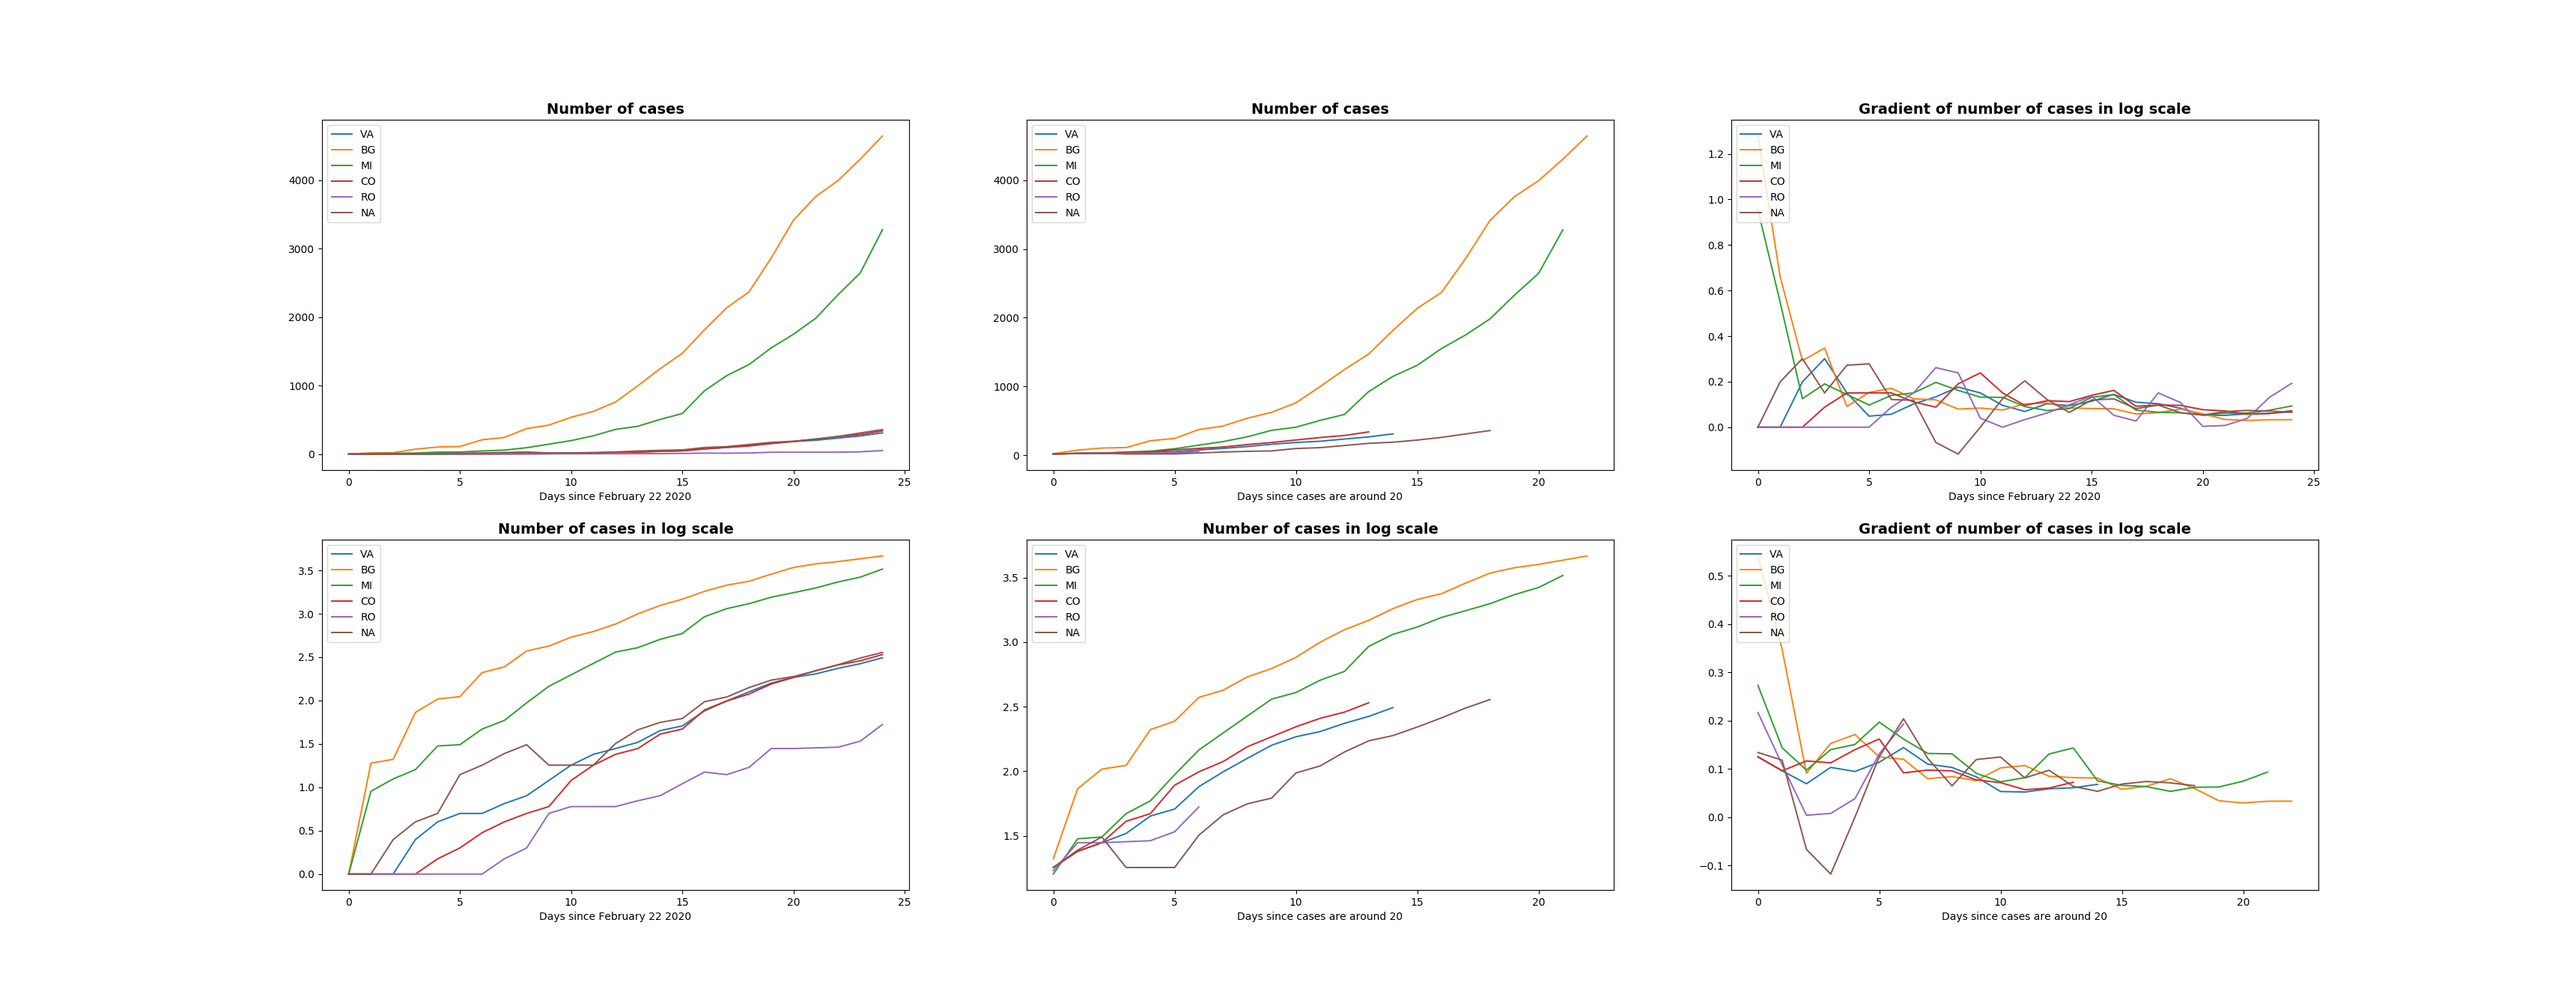
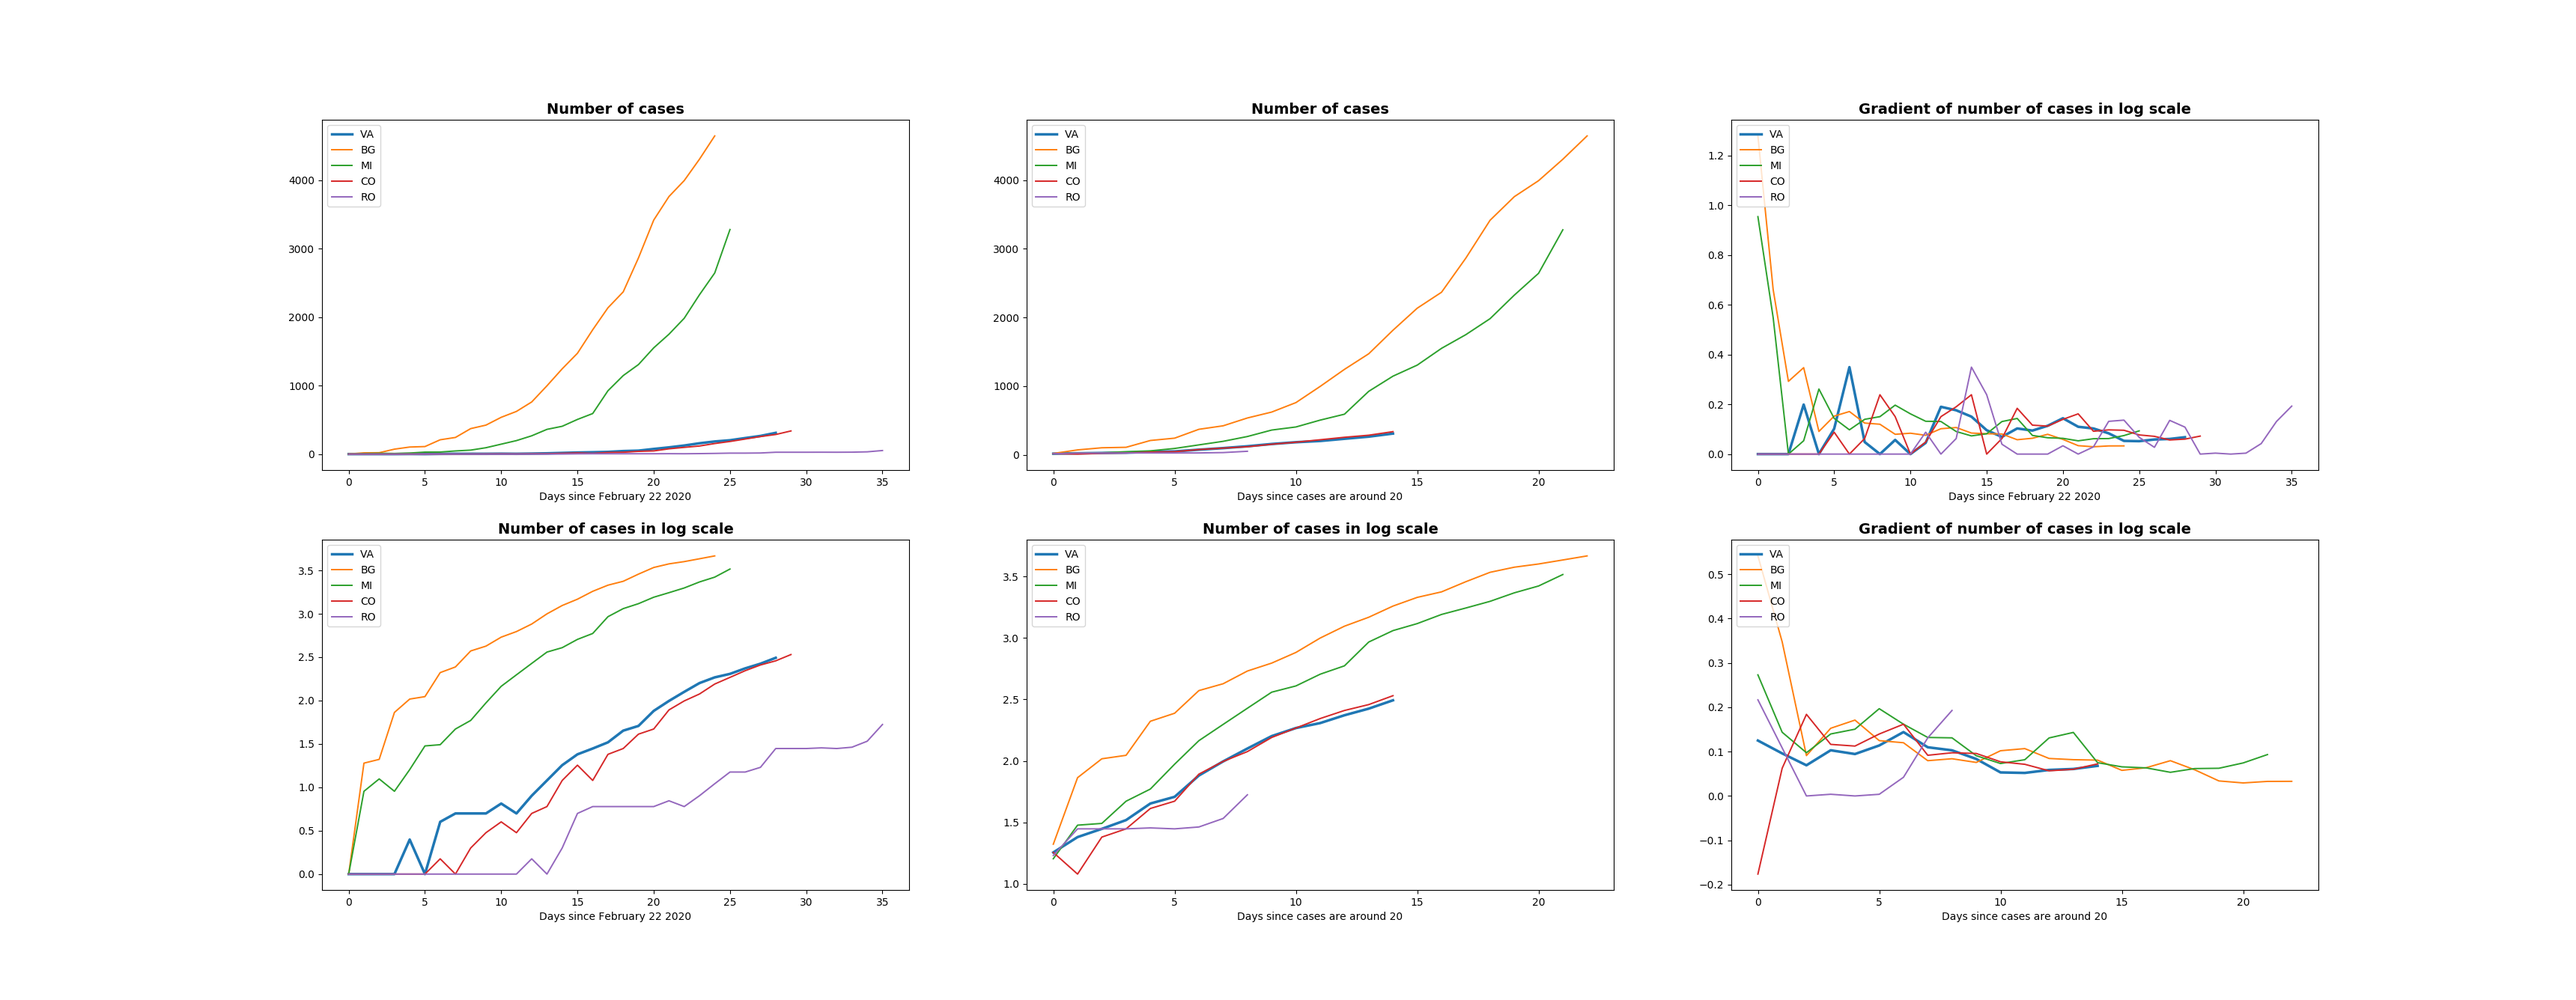
Thicker curves

diff --git a/utils/plot.py b/utils/plot.py
@@ -5,7 +5,7 @@ def plot_cases(confirmed, align_indexes, align_around):
     # Simple graph
     plt.subplot(2, 3, 1)
     for c, v in confirmed.items():
-        if c == "Italy":
+        if c == "Italy" or c == "VA":
             linewidth = 2.5
         else:
             linewidth = 1.4
@@ -18,7 +18,7 @@ def plot_cases(confirmed, align_indexes, align_around):
     # Simple aligned
     plt.subplot(2, 3, 2)
     for c, v in confirmed.items():
-        if c == "Italy":
+        if c == "Italy" or c == "VA":
             linewidth = 2.5
         else:
             linewidth = 1.4
@@ -31,7 +31,7 @@ def plot_cases(confirmed, align_indexes, align_around):
     # Logarithm Gradient
     plt.subplot(2, 3, 3)
     for c, v in confirmed.items():
-        if c == "Italy":
+        if c == "Italy" or c == "VA":
             linewidth = 2.5
         else:
             linewidth = 1.4
@@ -47,7 +47,7 @@ def plot_cases(confirmed, align_indexes, align_around):
     # Logarithm
     plt.subplot(2, 3, 4)
     for c, v in confirmed.items():
-        if c == "Italy":
+        if c == "Italy" or c == "VA":
             linewidth = 2.5
         else:
             linewidth = 1.4
@@ -61,7 +61,7 @@ def plot_cases(confirmed, align_indexes, align_around):
     # Logarithm aligned
     plt.subplot(2, 3, 5)
     for c, v in confirmed.items():
-        if c == "Italy":
+        if c == "Italy" or c == "VA":
             linewidth = 2.5
         else:
             linewidth = 1.4
@@ -75,7 +75,7 @@ def plot_cases(confirmed, align_indexes, align_around):
     # Logarithm aligned Gradient
     plt.subplot(2, 3, 6)
     for c, v in confirmed.items():
-        if c == "Italy":
+        if c == "Italy" or c == "VA":
             linewidth = 2.5
         else:
             linewidth = 1.4
@@ -97,7 +97,7 @@ def plot_growth(growths, align_indexes, align_around):
     # Raw Growth Rate
     plt.subplot(2, 3, 1)
     for c, v in growth_rate.items():
-        if c == "Italy":
+        if c == "Italy" or c == "VA":
             linewidth = 2.5
         else:
             linewidth = 1.4
@@ -110,7 +110,7 @@ def plot_growth(growths, align_indexes, align_around):
     # Raw Growth Rate
     plt.subplot(2, 3, 2)
     for c, v in growth_rate_moving_average.items():
-        if c == "Italy":
+        if c == "Italy" or c == "VA":
             linewidth = 2.5
         else:
             linewidth = 1.4
@@ -123,7 +123,7 @@ def plot_growth(growths, align_indexes, align_around):
 
     plt.subplot(2, 3, 3)
     for c, v in growth_rate_global_moving_average.items():
-        if c == "Italy":
+        if c == "Italy" or c == "VA":
             linewidth = 2.5
         else:
             linewidth = 1.4
@@ -136,7 +136,7 @@ def plot_growth(growths, align_indexes, align_around):
 
     plt.subplot(2, 3, 4)
     for c, v in growth_rate.items():
-        if c == "Italy":
+        if c == "Italy" or c == "VA":
             linewidth = 2.5
         else:
             linewidth = 1.4
@@ -149,7 +149,7 @@ def plot_growth(growths, align_indexes, align_around):
 
     plt.subplot(2, 3, 5)
     for c, v in growth_rate_moving_average.items():
-        if c == "Italy":
+        if c == "Italy" or c == "VA":
             linewidth = 2.5
         else:
             linewidth = 1.4
@@ -162,7 +162,7 @@ def plot_growth(growths, align_indexes, align_around):
 
     plt.subplot(2, 3, 6)
     for c, v in growth_rate_global_moving_average.items():
-        if c == "Italy":
+        if c == "Italy" or c == "VA":
             linewidth = 2.5
         else:
             linewidth = 1.4

diff --git a/utils/italy_data.py b/utils/italy_data.py
@@ -8,7 +8,7 @@ data = requests.get("https://raw.githubusercontent.com/pcm-dpc/COVID-19/master/d
 def parse_provinces() -> list:
     provinces = list(set([element.get("sigla_provincia") for element in data]))
 
-    default_provinces = ["VA", "BG", "MI", "CO", "RO", "NA"]
+    default_provinces = ["VA", "BG", "MI", "CO", "RO"]
     all_provinces = list()
 
     new_provinces = sys.argv[1:]
@@ -26,12 +26,16 @@ def compute_provinces_confirmed_cases() -> dict:
     
     for p in all_provinces:
         local_data = [element.get("totale_casi") for element in data if element.get("sigla_provincia") == p]
-        # Clean when there are dates with no update and a "sudden" jump
         new_local_data = list()
 
+        # Clean from "mistakes" in the data
         for idx, d in enumerate(local_data):
             if idx > 1 and idx < len(local_data) and d - local_data[idx-1] == 0:
+                # Clean when there are dates with no update and a "sudden" jump
                 new_local_data.append((local_data[idx-1] + local_data[idx+1]) / 2)
+            if idx > 0 and d < local_data[idx-1]:
+                # the total number of cases can't decrease
+                new_local_data.append(max(local_data[:idx]))
             else:
                 new_local_data.append(d)
 

diff --git a/README.md b/README.md
@@ -14,7 +14,7 @@ In order to understand trends we look at the slope of the number of cases in log
 * ```pip install -r requirements.txt ```
 * By defaul the graphs will show the numbers for 
     * `Italy`, `US`, `Germany`, `Norway` and `Spain`. <br>
-    * `VA`, `BG`, `MI`, `CO`, `RO`, `NA` <br>
+    * `VA`, `BG`, `MI`, `CO`, `RO` <br>
 
 You can include other countries or provinces, if available, by just adding the name after the script's name
 * ```python run_countries.py Japan```
